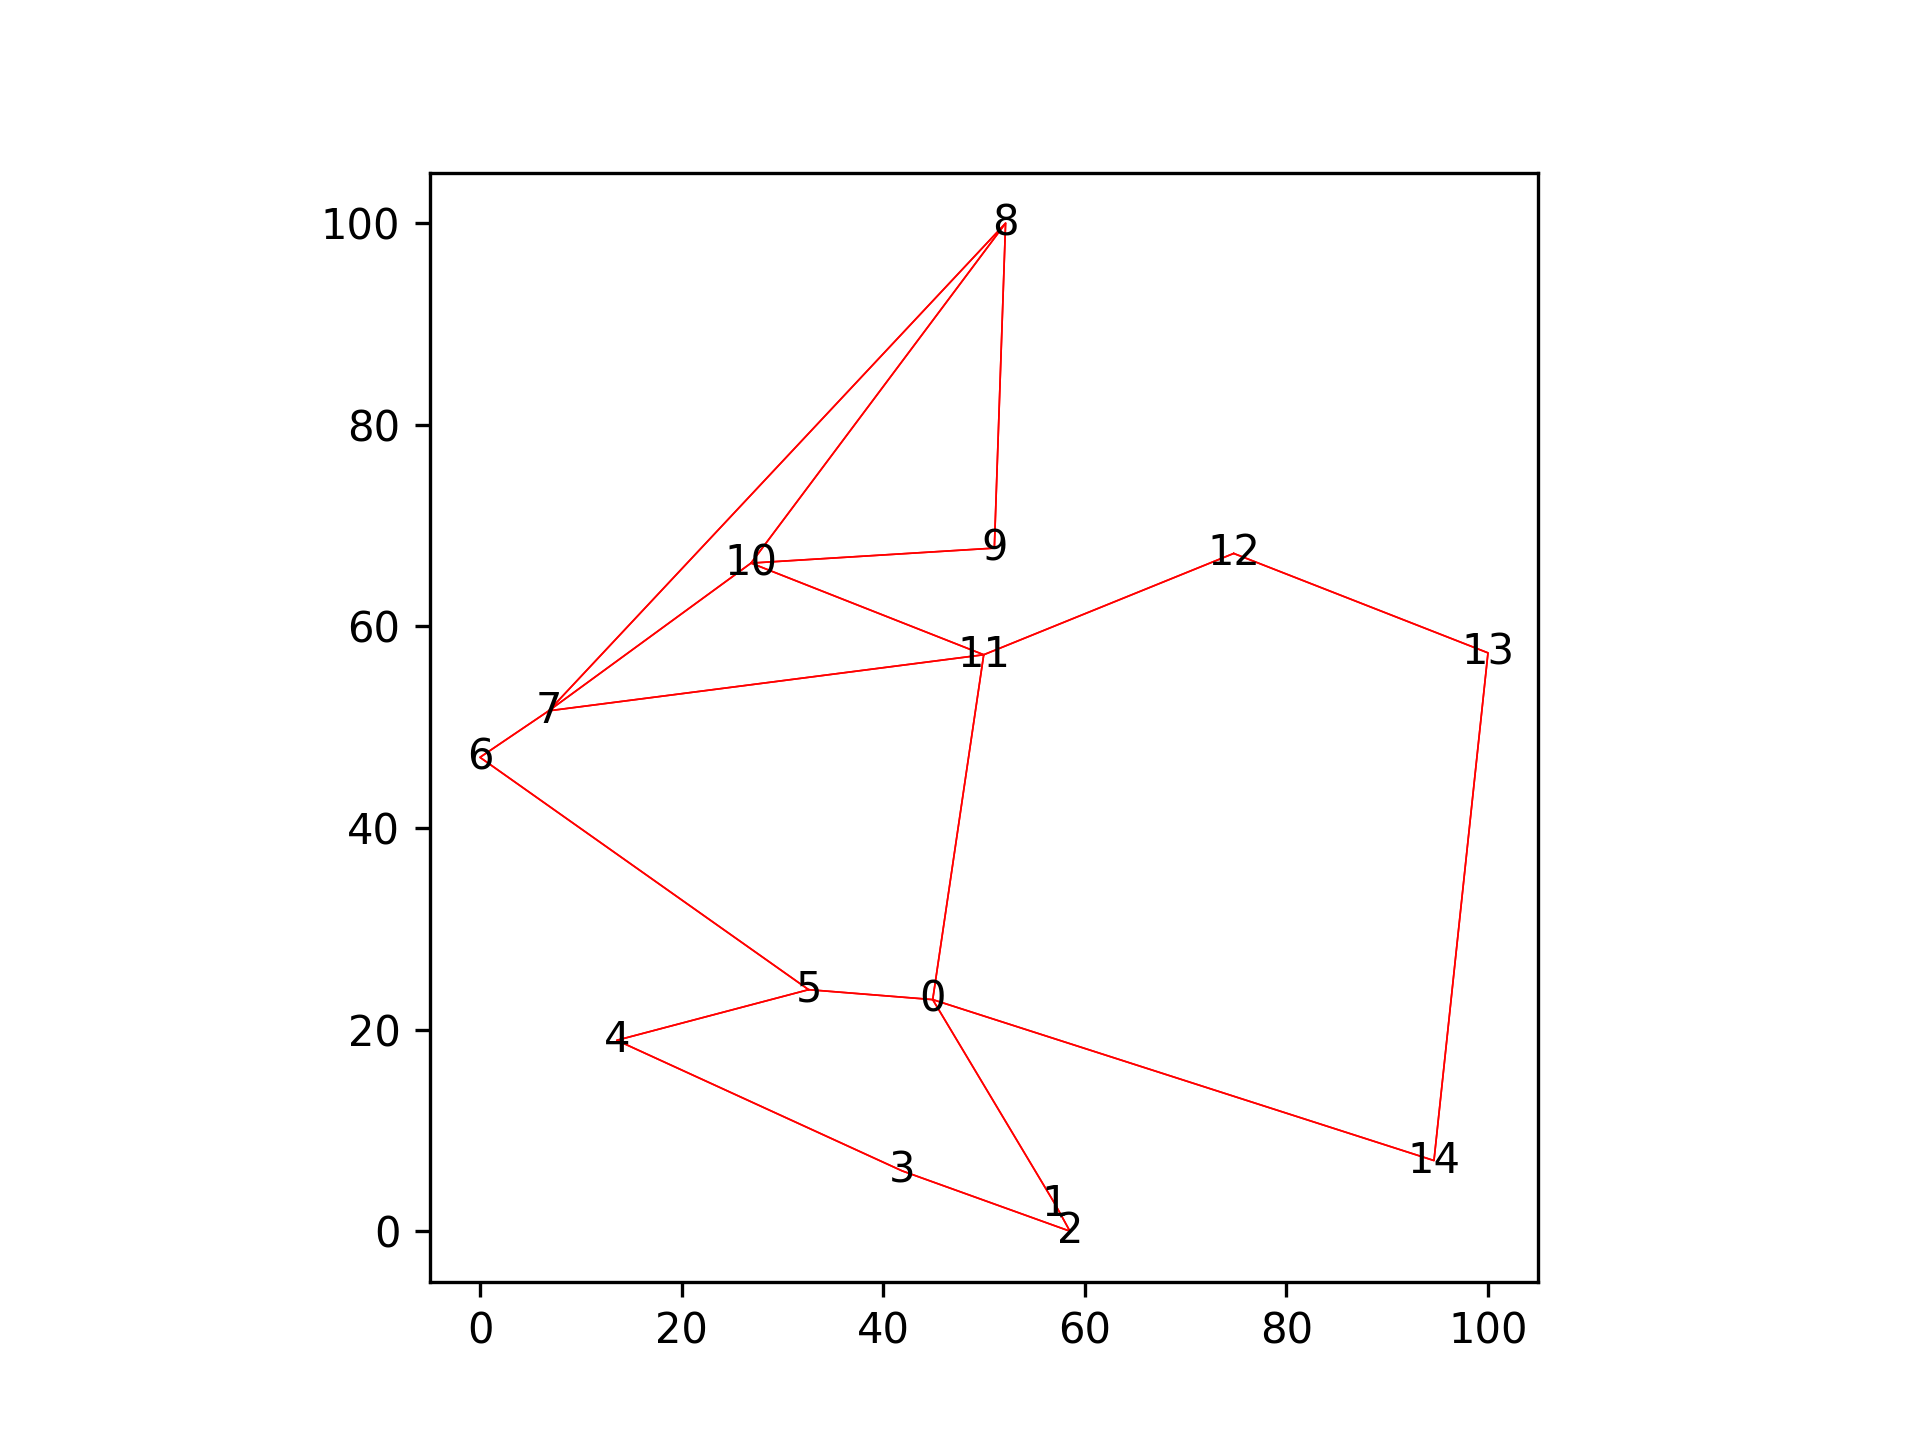
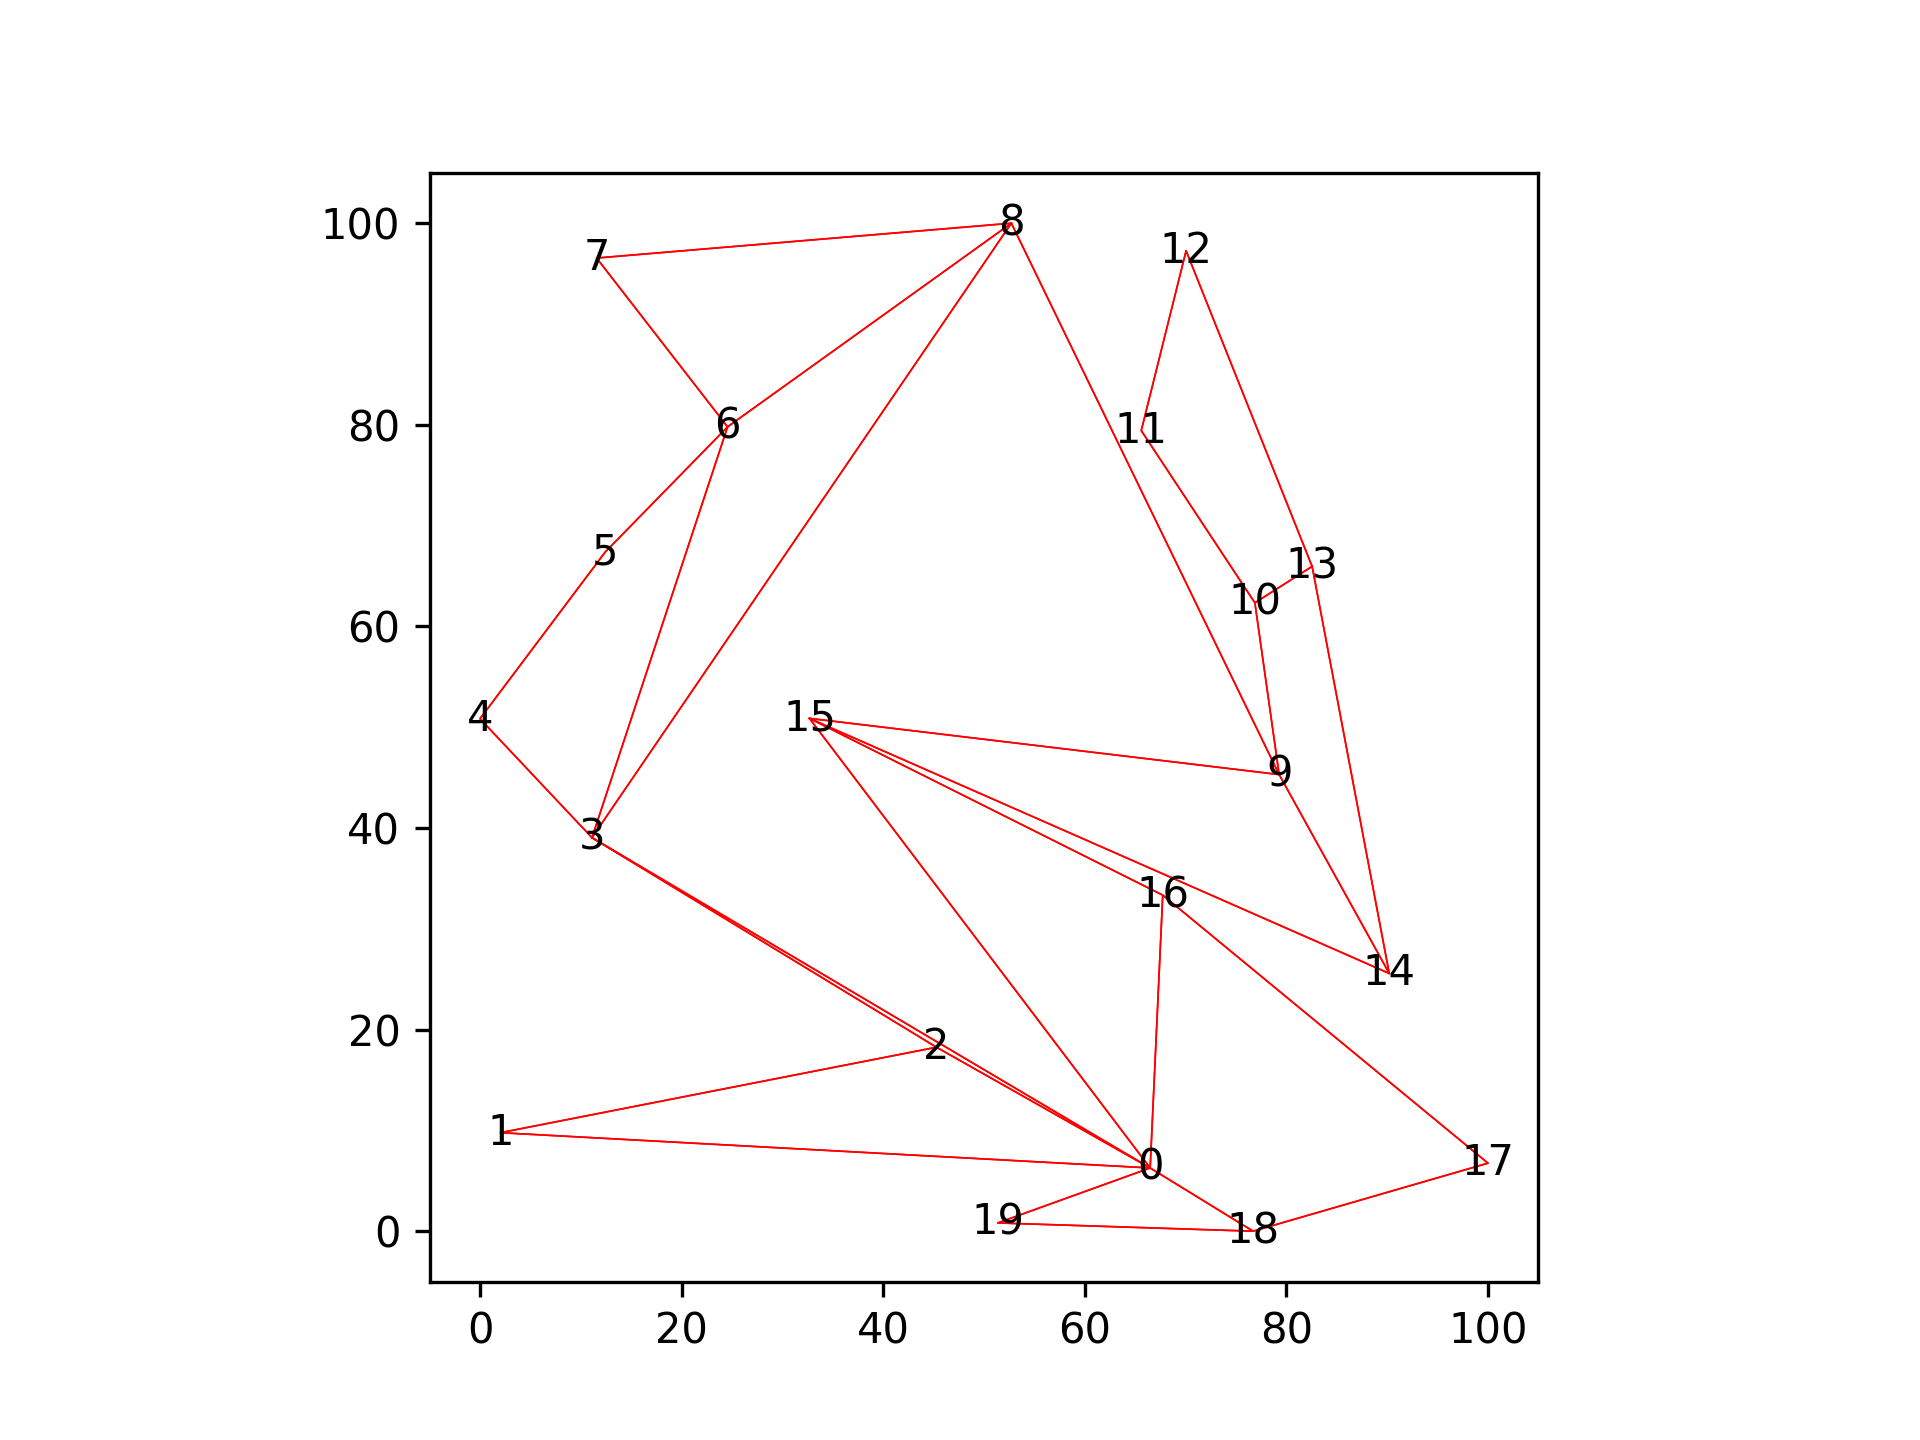
fases added

diff --git a/MP1.cpp b/MP1.cpp
@@ -2,11 +2,20 @@
 #include "Utils.hpp"
 #include "DCEL.hpp"
 
-bool MP1::primeMP1(DCEL *polygon)
+MP1::MP1(DCEL *&dcel)
+{
+    notches = getAllNotches(dcel->faces[EXTERNAL_FACE]);
+    polygon = dcel;
+    for (int i = 0; i < notches.size(); i++)
+    {
+        cout << notches[i]->index << " ";
+    }
+    cout << '\n';
+}
+bool MP1::primeMP1()
 {
     L.clear();
-    vector<Vertex *> notches = getAllNotches(polygon->faces[0]);
-    HalfEdge *begin = polygon->faces[1]->he;
+    HalfEdge *begin = polygon->faces[WORKING_FACE]->he;
     int k = st++;
     while (k--)
         begin = begin->next;
@@ -31,11 +40,11 @@ bool MP1::primeMP1(DCEL *polygon)
         next_begin = next_begin->next;
         vi_p = next_begin->next->v;
     }
-    // for (int i = 0; i < L.size(); i++)
-    // {
-    //     cout << L[i]->index << " ";
-    // }
-    // cout << '\n';
+    for (int i = 0; i < L.size(); i++)
+    {
+        cout << L[i]->index << " ";
+    }
+    cout << '\n';
     if (next_begin == begin)
     {
         return 1;
@@ -65,7 +74,7 @@ bool MP1::primeMP1(DCEL *polygon)
                     }
                     if (contain == 0 && r->isInside(notch) == 1 && isInside(v_st, v_end, notch) == 1)
                     {
-                        cout << notch->index << " " << endl;
+                        cout << notch->index << '\n';
                         L.pop_back();
                         break;
                     }
@@ -78,6 +87,13 @@ bool MP1::primeMP1(DCEL *polygon)
 
     // cout << '\n'
     //      << endl;
+    for (int i = 0; i < L.size(); i++)
+    {
+        cout << L[i]->index << " ";
+    }
+    cout << '\n'
+         << endl;
+    ;
     if (L.size() > 2)
     {
         HalfEdge *h = polygon->addEdge(L[0], L[L.size() - 1], polygon->faces[1]);
@@ -86,7 +102,7 @@ bool MP1::primeMP1(DCEL *polygon)
     return 0;
 }
 
-void MP1::merge(DCEL *polygon)
+void MP1::merge()
 {
     vector<HalfEdge *> e;
     for (int i = 0; i < addedEdges.size(); i++)

diff --git a/main.cpp b/main.cpp
@@ -10,15 +10,15 @@ int main()
     DCEL *dcel = new DCEL();
     char in[] = "input.txt";
     dcel->createPolygon(in);
-    MP1 *mp1 = new MP1;
+    MP1 *mp1 = new MP1(dcel);
     int k1 = 100, k2 = 2;
     while (k1--)
-        mp1->primeMP1(dcel);
+        mp1->primeMP1();
     ;
-    while (k2--)
-        mp1->merge(dcel);
+    // while (k2--)
+    //     mp1->merge();
 
-    // dcel->print_();
+    dcel->print_();
     char out[] = "output.txt";
     dcel->outputPolygon(out);
 }

diff --git a/MP1.hpp b/MP1.hpp
@@ -6,14 +6,19 @@
 #include <time.h>
 #include "DCEL.hpp"
 #include "Rectangle.hpp"
+#define EXTERNAL_FACE 0
+#define WORKING_FACE 1
 
 class MP1
 {
 public:
     int st = 0;
+    DCEL *polygon;
     vector<Vertex *> L;
     vector<HalfEdge *> addedEdges;
-    bool primeMP1(DCEL *polygon);
-    void merge(DCEL *polygon);
+    vector<Vertex *> notches;
+    MP1(DCEL *&dcel);
+    bool primeMP1();
+    void merge();
 };
 #endif

diff --git a/Utils.cpp b/Utils.cpp
@@ -9,6 +9,8 @@ vector<Vertex *> getAllNotches(Face *f)
     vector<Vertex *> v;
     HalfEdge *h = f->he;
     HalfEdge *t = h->next;
+    if (orient(h->next->v, h->v, h->prev->v) == 0)
+        v.push_back(h->v);
     while (h != t)
     {
         if (orient(t->next->v, t->v, t->prev->v) == 0)

diff --git a/polygon.py b/polygon.py
@@ -26,8 +26,8 @@ def plot_polygon(polygon, out_file_name):
     plt.close()
 
 
-num_points = 15
-polygon = random_polygon(num_points=15)
+num_points = 20
+polygon = random_polygon(num_points=20)
 polygon.reverse()
 i = 0
 f = open("input.txt", "w")
